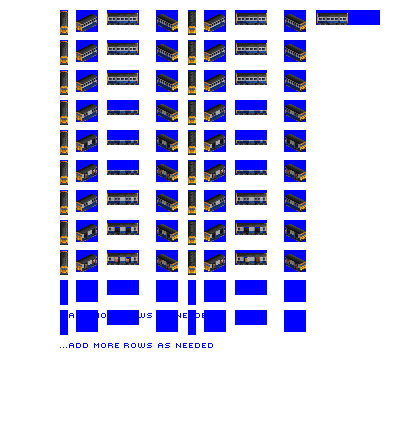
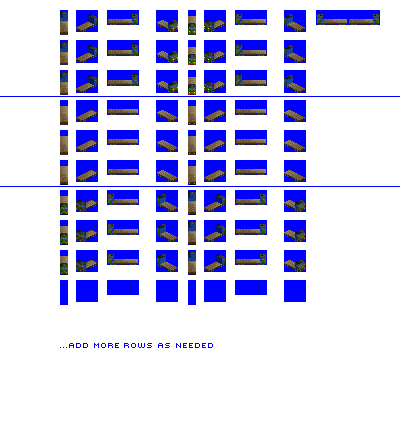
Change: cargo sprinter new graphics, also properly supports magical swapping of graphics depending on consist

diff --git a/src/train.py b/src/train.py
@@ -314,6 +314,11 @@ class Train(object):
         else:
             return expression_template.substitute(offset=0)
 
+    def get_nml_expression_for_grfid_of_neighbouring_unit(self, unit_offset):
+        # offset is number of units, not number of slices
+        expression_template = Template("[STORE_TEMP(${offset}, 0x10F), var[0x61, 0, 0xFFFFFFFF, 0x25]]")
+        return expression_template.substitute(offset=(3 * unit_offset))
+
     def get_nml_expression_for_id_of_neighbouring_unit(self, unit_offset):
         # offset is number of units, not number of slices
         expression_template = Template("[STORE_TEMP(${offset}, 0x10F), var[0x61, 0, 0x0000FFFF, 0xC6]]")
